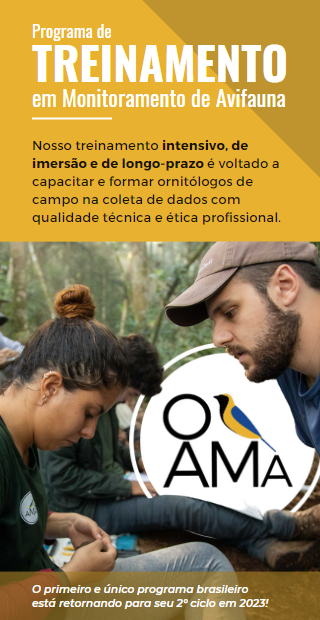
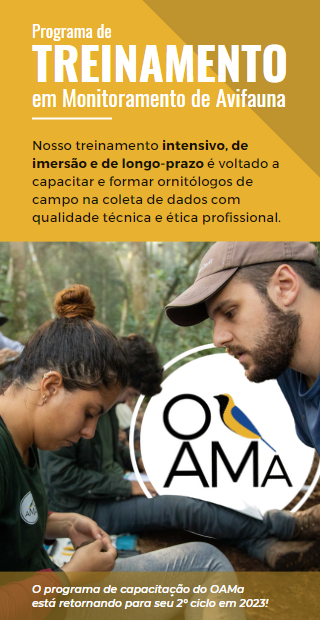
updates webiste

Changed region(s): [[0.3438, 0.9194, 0.7812, 0.9806], [0.1875, 0.9194, 0.3125, 0.9806], [0.3125, 0.9194, 0.3438, 0.95]]

diff --git a/pages/treinamento-cursos/index.jsx b/pages/treinamento-cursos/index.jsx
@@ -87,13 +87,12 @@ export default function Treinamento() {
             {/* <div className="flex flex-col sm:flex-row"> */}
             <div className="w-full my-auto">
               <p className="text-gray-600 mb-4">
-                Em 2022, demos início ao primeiro e único programa de
-                treinamento em monitoramento de avifauna do Brasil. Nosso
-                programa é voltado para capacitar e formar ornitólogos na coleta
-                de dados de campo com qualidade técnica e ética profissional. O
-                objetivo deste programa é criar oportunidades de treinamento
-                intensivo, de imersão e de longo-prazo para ornitólogos de
-                campo.
+                Em 2022, demos início ao nosso programa de treinamento em
+                monitoramento de avifauna. Nosso programa é voltado para
+                capacitar e formar ornitólogos na coleta de dados de campo com
+                qualidade técnica e ética profissional. O objetivo deste
+                programa é criar oportunidades de treinamento intensivo, de
+                imersão e de longo-prazo para ornitólogos de campo.
               </p>
               <p className="text-gray-600 mb-4">
                 O nosso treinamento foi estruturado com base no programa do
@@ -147,7 +146,7 @@ export default function Treinamento() {
                 />
               </div>
 
-              <p className="text-gray-600 mb-4">
+              {/* <p className="text-gray-600 mb-4">
                 O treinamento é intenso, com muitas horas de campo e de estudo
                 semanais. As inscrições permanecerão abertas até 20 de janeiro
                 de 2023. Para baixar a chamada para o programa com mais
@@ -167,8 +166,8 @@ export default function Treinamento() {
                 >
                   formulário de inscrição
                 </a>
-                .
-              </p>
+                . */}
+              {/* </p> */}
               <HallOfFame />
               {/* </div> */}
             </div>
